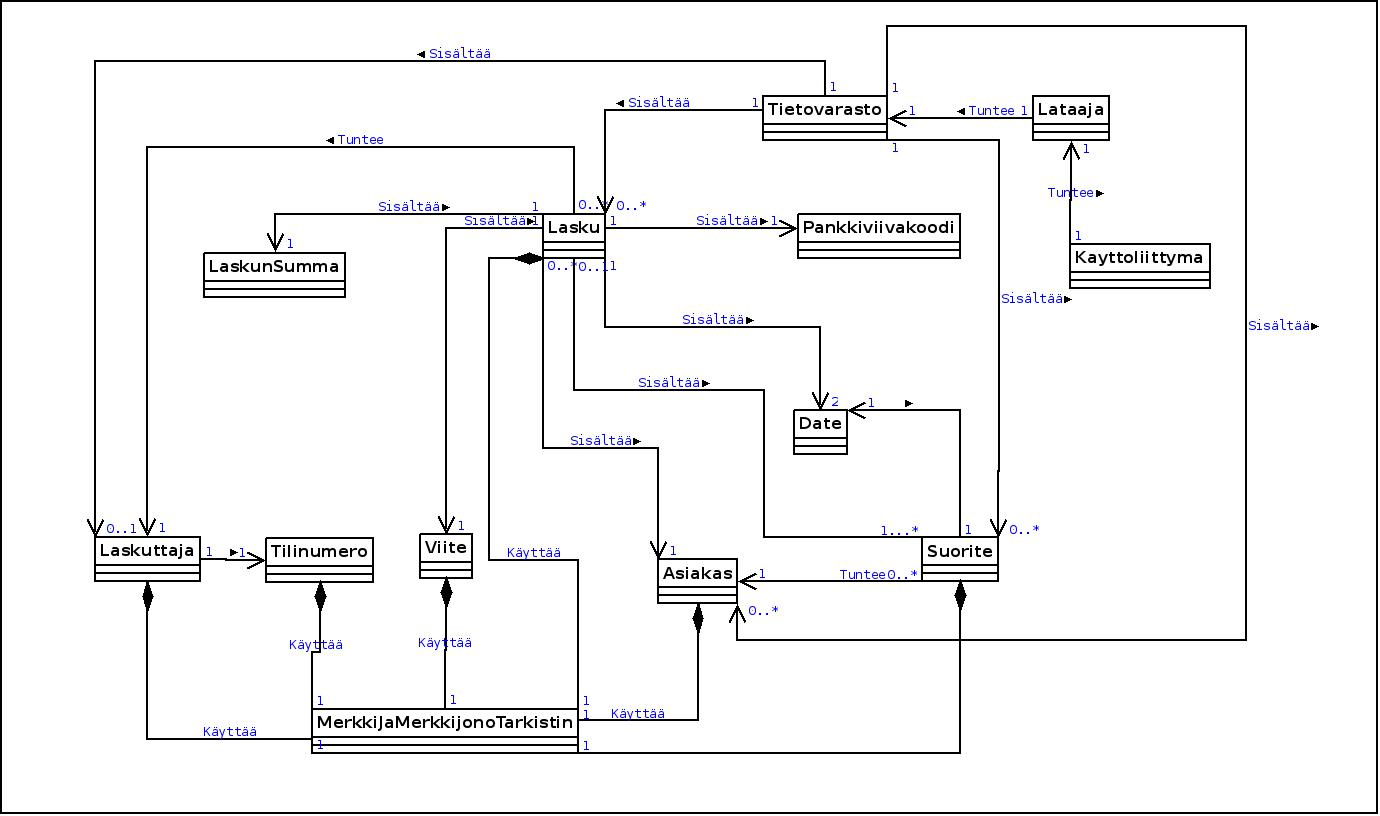
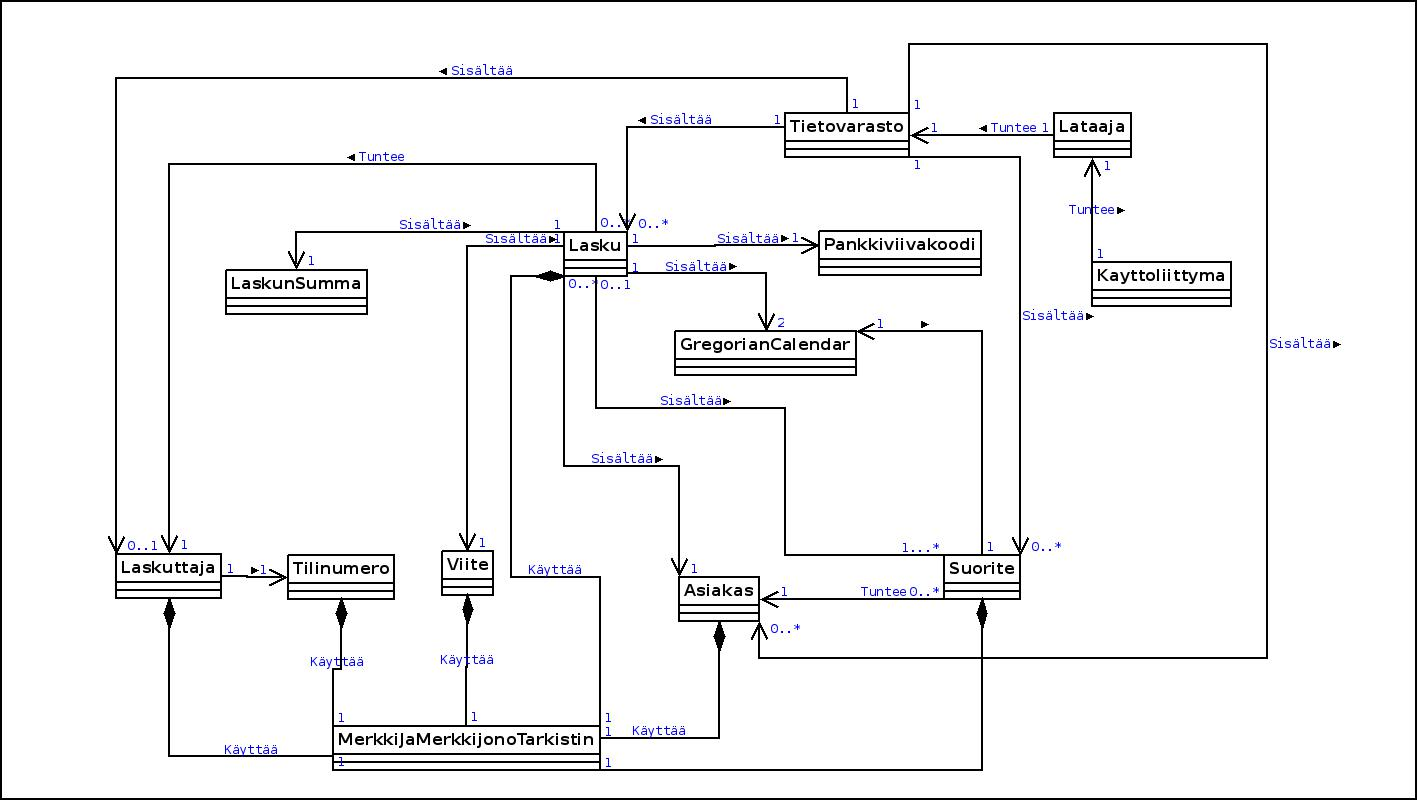
rakennekuvaus tehty ja muokattu luokkakaaviota

diff --git a/Superlaskuttaja/src/main/java/superlaskuttaja/kayttoliittyma/suoritteet/poista/SuoritteetPanelPoistaSuoriteSuoriteOnLaskullaPoikkeusIkkuna.java b/Superlaskuttaja/src/main/java/superlaskuttaja/kayttoliittyma/suoritteet/poista/SuoritteetPanelPoistaSuoriteSuoriteOnLaskullaPoikkeusIkkuna.java
@@ -1,0 +1,68 @@
+/*
+ * To change this license header, choose License Headers in Project Properties.
+ * To change this template file, choose Tools | Templates
+ * and open the template in the editor.
+ */
+package superlaskuttaja.kayttoliittyma.suoritteet;
+
+import java.awt.Container;
+import java.awt.GridLayout;
+import javax.swing.JButton;
+import javax.swing.JDialog;
+import javax.swing.JLabel;
+import javax.swing.JPanel;
+import javax.swing.WindowConstants;
+import javax.swing.border.EmptyBorder;
+
+/**
+ *
+ * @author Augustus58
+ */
+public class SuoritteetPanelPoistaSuoritePoikkeusIkkuna implements Runnable {
+
+    private JDialog dialog;
+
+    @Override
+    public void run() {
+        dialog = new JDialog();
+        dialog.setLocation(160, 120);
+        
+        dialog.setResizable(false);
+
+        dialog.setDefaultCloseOperation(WindowConstants.DO_NOTHING_ON_CLOSE);
+        dialog.setAlwaysOnTop(true);
+
+        luoKomponentit(dialog.getContentPane());
+
+        dialog.pack();
+        dialog.setVisible(true);
+    }
+
+    private void luoKomponentit(Container container) {
+        JPanel panel = new JPanel();
+        
+        GridLayout layout = new GridLayout(0, 1);
+        layout.setVgap(10);
+        layout.setHgap(10);
+        
+        panel.setLayout(layout);
+        
+        panel.setBorder(new EmptyBorder(20, 20, 20, 20));
+        
+        JLabel teksti1 = new JLabel("Yhtään asiakasta ei ole valittuna.");
+        
+        JButton okButton = new JButton("OK");
+        okButton.addActionListener(new SuoritteetPanelPoistaSuoritePoikkeusIkkunaOkKuuntelija(dialog));
+        
+        panel.add(teksti1);
+        panel.add(okButton);
+        
+        container.add(panel);
+        
+    }
+
+    public JDialog getDialog() {
+        return dialog;
+    }
+
+}

diff --git a/Superlaskuttaja/src/main/java/superlaskuttaja/kayttoliittyma/asiakkaat/poista/AsiakkaatPanelPoistaAsiakasEiValittuAsiakastaPoikkeusIkkuna.java b/Superlaskuttaja/src/main/java/superlaskuttaja/kayttoliittyma/asiakkaat/poista/AsiakkaatPanelPoistaAsiakasEiValittuAsiakastaPoikkeusIkkuna.java
@@ -1,0 +1,68 @@
+/*
+ * To change this license header, choose License Headers in Project Properties.
+ * To change this template file, choose Tools | Templates
+ * and open the template in the editor.
+ */
+package superlaskuttaja.kayttoliittyma.asiakkaat;
+
+import java.awt.Container;
+import java.awt.GridLayout;
+import javax.swing.JButton;
+import javax.swing.JDialog;
+import javax.swing.JLabel;
+import javax.swing.JPanel;
+import javax.swing.WindowConstants;
+import javax.swing.border.EmptyBorder;
+
+/**
+ *
+ * @author Augustus58
+ */
+public class AsiakkaatPanelPoistaAsiakasPoikkeusIkkuna implements Runnable {
+
+    private JDialog dialog;
+
+    @Override
+    public void run() {
+        dialog = new JDialog();
+        dialog.setLocation(160, 120);
+        
+        dialog.setResizable(false);
+
+        dialog.setDefaultCloseOperation(WindowConstants.DO_NOTHING_ON_CLOSE);
+        dialog.setAlwaysOnTop(true);
+
+        luoKomponentit(dialog.getContentPane());
+
+        dialog.pack();
+        dialog.setVisible(true);
+    }
+
+    private void luoKomponentit(Container container) {
+        JPanel panel = new JPanel();
+        
+        GridLayout layout = new GridLayout(0, 1);
+        layout.setVgap(10);
+        layout.setHgap(10);
+        
+        panel.setLayout(layout);
+        
+        panel.setBorder(new EmptyBorder(20, 20, 20, 20));
+        
+        JLabel teksti1 = new JLabel("Yhtään asiakasta ei ole valittuna.");
+        
+        JButton okButton = new JButton("OK");
+        okButton.addActionListener(new AsiakkaatPanelPoistaAsiakasPoikkeusIkkunaOkKuuntelija(dialog));
+        
+        panel.add(teksti1);
+        panel.add(okButton);
+        
+        container.add(panel);
+        
+    }
+
+    public JDialog getDialog() {
+        return dialog;
+    }
+
+}

diff --git a/Superlaskuttaja/src/main/java/superlaskuttaja/kayttoliittyma/suoritteet/poista/SuoritteetPanelPoistaSuoriteSuoriteOnLaskullaPoikkeusIkkunaOkKuuntelija1.java b/Superlaskuttaja/src/main/java/superlaskuttaja/kayttoliittyma/suoritteet/poista/SuoritteetPanelPoistaSuoriteSuoriteOnLaskullaPoikkeusIkkunaOkKuuntelija1.java
@@ -1,0 +1,28 @@
+/*
+ * To change this license header, choose License Headers in Project Properties.
+ * To change this template file, choose Tools | Templates
+ * and open the template in the editor.
+ */
+package superlaskuttaja.kayttoliittyma.suoritteet;
+
+import java.awt.event.ActionEvent;
+import java.awt.event.ActionListener;
+import javax.swing.JDialog;
+
+/**
+ *
+ * @author Augustus58
+ */
+public class SuoritteetPanelPoistaSuoritePoikkeusIkkunaOkKuuntelija implements ActionListener {
+    private final JDialog dialog;
+
+    public SuoritteetPanelPoistaSuoritePoikkeusIkkunaOkKuuntelija(JDialog dialog) {
+        this.dialog = dialog;
+    }
+    
+    @Override
+    public void actionPerformed(ActionEvent ae) {
+        dialog.dispose();
+        
+    }
+}

diff --git a/Superlaskuttaja/src/main/java/superlaskuttaja/kayttoliittyma/asiakkaat/poista/AsiakkaatPanelPoistaAsiakasEiValittuAsiakastaPoikkeusIkkunaOkKuuntelija.java b/Superlaskuttaja/src/main/java/superlaskuttaja/kayttoliittyma/asiakkaat/poista/AsiakkaatPanelPoistaAsiakasEiValittuAsiakastaPoikkeusIkkunaOkKuuntelija.java
@@ -1,0 +1,28 @@
+/*
+ * To change this license header, choose License Headers in Project Properties.
+ * To change this template file, choose Tools | Templates
+ * and open the template in the editor.
+ */
+package superlaskuttaja.kayttoliittyma.asiakkaat;
+
+import java.awt.event.ActionEvent;
+import java.awt.event.ActionListener;
+import javax.swing.JDialog;
+
+/**
+ *
+ * @author Augustus58
+ */
+public class AsiakkaatPanelPoistaAsiakasPoikkeusIkkunaOkKuuntelija implements ActionListener {
+    private final JDialog dialog;
+
+    public AsiakkaatPanelPoistaAsiakasPoikkeusIkkunaOkKuuntelija(JDialog dialog) {
+        this.dialog = dialog;
+    }
+    
+    @Override
+    public void actionPerformed(ActionEvent ae) {
+        dialog.dispose();
+        
+    }
+}

diff --git a/dokumentointi/rakennekuvaus.md b/dokumentointi/rakennekuvaus.md
@@ -1,0 +1,43 @@
+## Rakennekuvaus
+### Logiikka
+Logiikan keskeisin luokka on Lasku
+#### Luokkaan Lasku liittyvät luokat
+- Laskuttaja
+  - Lasku saa tätä kautta laskuttajaan liittyvät tiedot
+  - Tätä kautta myös tieto lähetettyjen laskujen yhteismäärästä ja sitä kautta laskulle tuleva laskunnumero
+- Asiakas
+  - Lasku saa tätä kautta asiakkaaseen liittyvät tiedot
+  - Tätä kautta myös tieto kyseiselle asiakkaalle lähetettyjen laskujen määrästä ja sitä kautta tarvittava tieto laskulle tulevaa viitenumeroa varten
+- Suorite
+  - Vain suoritteita, jotka liittyvät laskun Asiakas-olioon
+  - Lasku saa tätä kautta tiedot suoritteiden kuvauksista ja yhteissummista laskun summan laskemista varten
+- LaskunSumma
+  - Tänne talletetaan laskun summa
+- Viite
+  - Tänne talletetaan laskun viite
+  - Viitteen muodostamiseen käytetään asiakasnumeroa ja tietoa asiakkaalle lähetettyjen laskujen määrästä
+- GregorianCalendar
+  - Tänne talletetaan päiväys -ja eräpäivätiedot
+- Pankkiviivakoodi
+  - Tämän muodostamiseen käytetään tietoja tilinumero, laskun summa, viite ja eräpäivä
+  - Helpottaa asiakkaan laskun maksamista
+- Tietovarasto
+  - Lasku talletetaan tänne
+- MerkkiJaMerkkijonoTarkistin
+  - Laskun tietojen tarkistuksia varten
+
+### Käyttöliittymä
+Keskeisin luokka on Kayttoliittyma
+#### Luokkaan Käyttoliittyma liittyvät tärkeimmät luokat
+- NappulaLukko
+  - Tätä luokkaa tarvitaan siihen, että esim. asiakasta ei voi poistaa kesken laskun luomisen
+- JTabbedPane tappedPane
+  - Käyttöliittymän päänavigointia varten
+- JPanel yhteenvetoPanel
+  - Ensimmäinen tappedPane:n paneeli
+- JPanel asiakkaatPanel
+  - Toinen tappedPane:n paneeli
+- JPanel suoritteetPanel
+  - Kolmas tappedPane:n paneeli
+- JPanel laskutPanel
+  - Neljäs tappedPane:n paneeli
